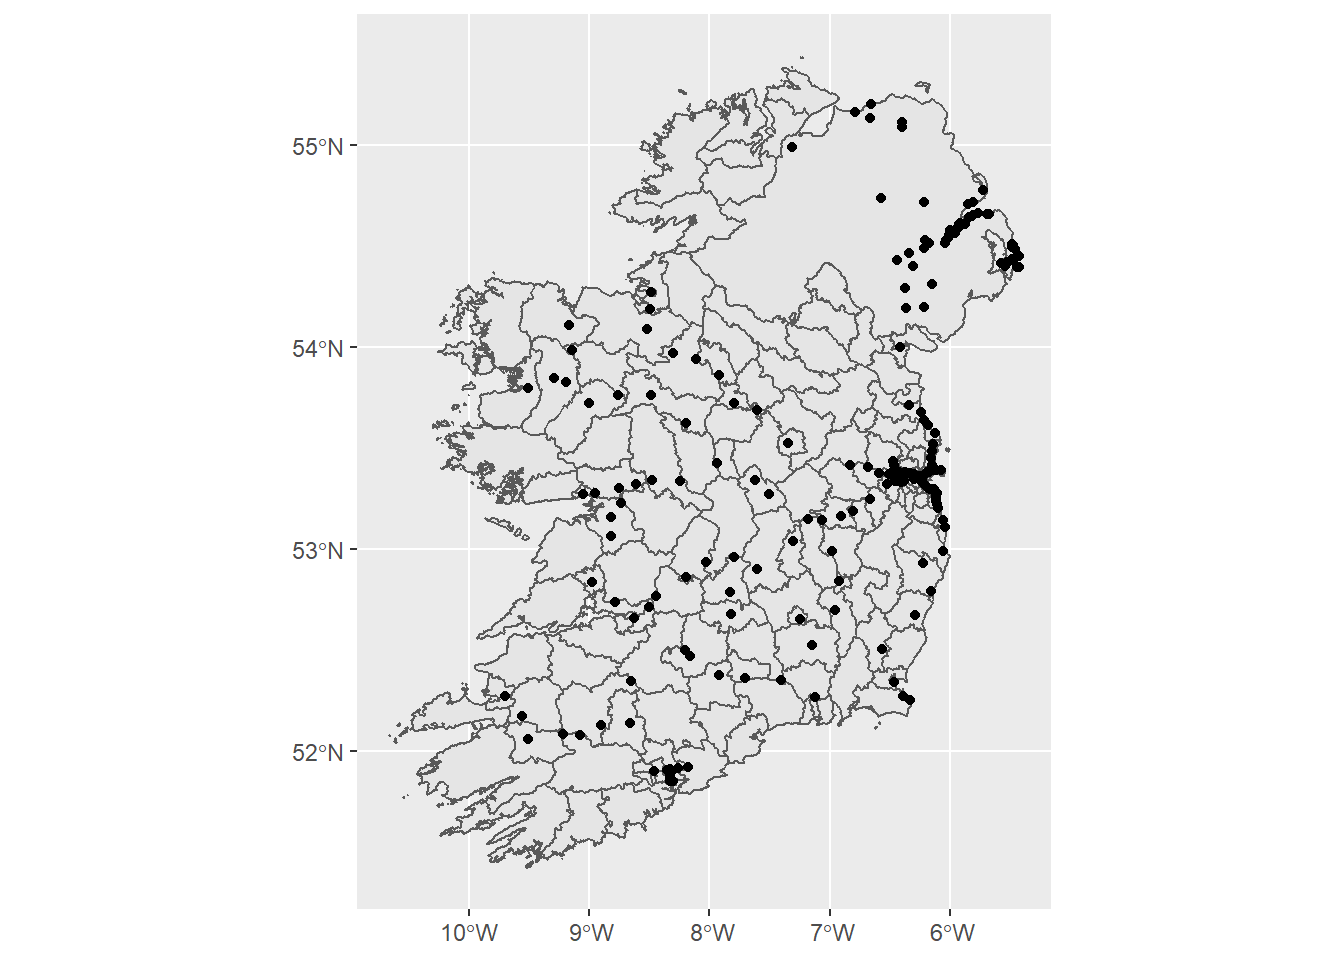
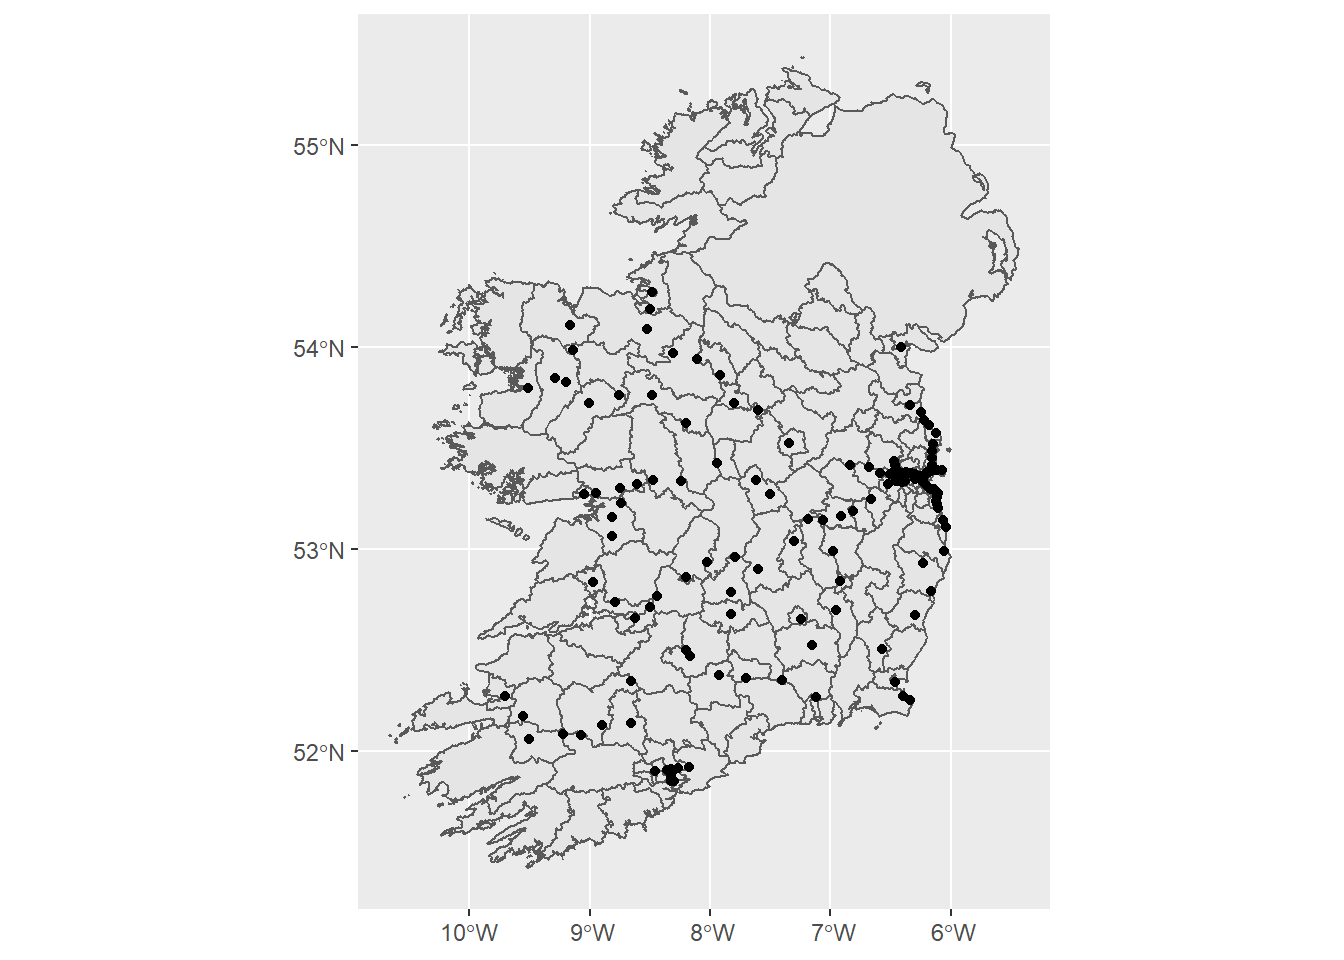
assigning points

diff --git a/docs/index.html b/docs/index.html
@@ -582,20 +582,20 @@ ggdraw(main_map) +
 </div>
 <div id="plotting-point-locations-in-a-map" class="section level2">
 <h2>Plotting point locations in a map</h2>
-<p>I’m going to assume a starting point where you have a file that contains coordinates for a bunch of points that you’d like to plot. For this example we’ll use the coordinates of Irish train stations as given on <a href="https://en.wikipedia.org/wiki/List_of_railway_stations_in_Ireland">Wikipedia</a>.</p>
+<p>I’m going to assume a starting point where you have a file that contains coordinates for a bunch of points that you’d like to plot. For this example we’ll use the coordinates of train stations in the Republic of Ireland as given on <a href="https://en.wikipedia.org/wiki/List_of_railway_stations_in_Ireland">Wikipedia</a>.</p>
 <pre class="r"><code>stations &lt;- read_csv(&quot;assets/train_stations.csv&quot;)
 stations[1:8,]</code></pre>
 <pre><code>## # A tibble: 8 x 3
-##   Name                      N     W
-##   &lt;chr&gt;                 &lt;dbl&gt; &lt;dbl&gt;
-## 1 Castlerock             55.2  6.79
-## 2 Portrush               55.2  6.65
-## 3 Coleraine              55.1  6.66
-## 4 Dhu Varren halt        55.1  6.39
-## 5 University halt        55.1  6.40
-## 6 Londonderry Waterside  55.0  7.31
-## 7 Ballycarry             54.8  5.73
-## 8 Bellarena              54.7  6.58</code></pre>
+##   Name                   N     W
+##   &lt;chr&gt;              &lt;dbl&gt; &lt;dbl&gt;
+## 1 Sligo Mac Diarmada  54.3  8.48
+## 2 Collooney           54.2  8.49
+## 3 Ballina             54.1  9.16
+## 4 Ballymote           54.1  8.52
+## 5 Dundalk Clarke      54.0  6.41
+## 6 Foxford             54.0  9.14
+## 7 Boyle               54.0  8.30
+## 8 Carrick-on-Shannon  53.9  8.11</code></pre>
 <p>We have the coordinates as latitude and longitude. We need to convert it into an sf object so that we can plot it with <code>geom_sf()</code>. We do that using the function <code>st_as_sf()</code>. There are two important arguments to this function. The first is <code>coords</code>, which takes the names of the two coordinates. We use the newly created variables ‘long’ and ‘lat’, where ‘long’ is the negative of <code>W</code> since it is to the west of the Greenwich Meridian. The second important argument is <code>crs</code> which stands for coordinate reference system. We set this to <code>"WGS 84"</code>, or the EPSG number for this crs which is 4326. This is the same crs used for <code>lea_166</code>, so they are already compatible. You can check this by running <code>st_crs(lea_166)</code>.</p>
 <p>The <code>st_as_sf</code> function creates the <code>geometry</code> column and removes the columns <code>long</code> and <code>lat</code>. At that point we no longer require <code>N</code> and <code>W</code> so we can remove those as well.</p>
 <pre class="r"><code>stations &lt;- stations %&gt;% 
@@ -604,10 +604,10 @@ stations[1:8,]</code></pre>
   select(-N, -W)
 
 glimpse(stations)</code></pre>
-<pre><code>## Rows: 200
+<pre><code>## Rows: 146
 ## Columns: 2
-## $ Name     &lt;chr&gt; &quot;Castlerock&quot;, &quot;Portrush&quot;, &quot;Coleraine&quot;, &quot;Dhu Varren halt&quot;, &quot;Un~
-## $ geometry &lt;POINT [°]&gt; POINT (-6.786944 55.16528), POINT (-6.653696 55.202), P~</code></pre>
+## $ Name     &lt;chr&gt; &quot;Sligo Mac Diarmada&quot;, &quot;Collooney&quot;, &quot;Ballina&quot;, &quot;Ballymote&quot;, &quot;D~
+## $ geometry &lt;POINT [°]&gt; POINT (-8.48249 54.2723), POINT (-8.49453 54.1871), POI~</code></pre>
 <div id="an-aside-on-coordinate-reference-systems" class="section level4 blue">
 <h4>An aside on Coordinate Reference Systems</h4>
 <p>There are lots of different ways of defining coordinate systems, and different systems are used by different organisations and in different countries. When we import or create coordinates in R we need to tell it what coordinate reference system we are using, particularly if we are using spatial coordinates from more than one source. One of the most widely used reference systems is the World Geodetic System (1984 version). This is what is used for <code>lea_166</code> and the <code>stations</code> here. There is a public registry of all of these reference systems called the EPSG Geodetic Parameter Dataset. In this registry every crs has a unique number, and these can be used to identify a crs in R. The EPSG code for World Geodetic System 1984 is 4326.</p>
@@ -622,6 +622,139 @@ glimpse(stations)</code></pre>
 </div>
 <div id="assigning-point-locations-to-regions-in-the-map" class="section level2">
 <h2>Assigning point locations to regions in the map</h2>
+<p>Let’s say we are interested in determining the LEA in which each train station is located. There are a couple of different potential endpoints here, we might want to calculate the number of stations per LEA or getting a list of stations for each LEA. Here I’ll produce a dataframe of LEA-station pairs, which will hopefully be useful for whatever you’re trying to achieve.</p>
+<p>We can use the function <code>st_contains</code> with <code>lea_166</code> and <code>stations</code>. This returns a list which is the same length as <code>lea_166</code>, with each entry equal to a vector of numbers corresponding to the row numbers of each station in <code>stations</code>.</p>
+<pre class="r"><code>stations_in_leas &lt;- st_contains(lea_166 , stations)
+glimpse(stations_in_leas)</code></pre>
+<pre><code>## List of 167
+##  $ : int [1:2] 28 30
+##  $ : int [1:2] 102 110
+##  $ : int [1:2] 62 84
+##  $ : int(0) 
+##  $ : int 105
+##  $ : int(0) 
+##  $ : int [1:3] 37 39 43
+##  $ : int(0) 
+##  $ : int(0) 
+##  $ : int(0) 
+##  $ : int(0) 
+##  $ : int(0) 
+##  $ : int(0) 
+##  $ : int(0) 
+##  $ : int [1:2] 103 106
+##  $ : int 5
+##  $ : int 67
+##  $ : int(0) 
+##  $ : int [1:6] 27 31 34 35 36 38
+##  $ : int 66
+##  $ : int(0) 
+##  $ : int(0) 
+##  $ : int(0) 
+##  $ : int(0) 
+##  $ : int 101
+##  $ : int 20
+##  $ : int(0) 
+##  $ : int 94
+##  $ : int [1:2] 121 122
+##  $ : int(0) 
+##  $ : int(0) 
+##  $ : int(0) 
+##  $ : int [1:4] 57 59 61 65
+##  $ : int 107
+##  $ : int [1:2] 126 134
+##  $ : int(0) 
+##  $ : int [1:2] 55 56
+##  $ : int(0) 
+##  $ : int 58
+##  $ : int(0) 
+##  $ : int(0) 
+##  $ : int [1:2] 25 26
+##  $ : int [1:2] 13 16
+##  $ : int [1:2] 135 137
+##  $ : int 130
+##  $ : int [1:3] 71 75 76
+##  $ : int(0) 
+##  $ : int 4
+##  $ : int(0) 
+##  $ : int(0) 
+##  $ : int 142
+##  $ : int(0) 
+##  $ : int 116
+##  $ : int [1:3] 88 93 98
+##  $ : int [1:2] 68 70
+##  $ : int(0) 
+##  $ : int(0) 
+##  $ : int 127
+##  $ : int(0) 
+##  $ : int(0) 
+##  $ : int(0) 
+##  $ : int(0) 
+##  $ : int(0) 
+##  $ : int 138
+##  $ : int(0) 
+##  $ : int 90
+##  $ : int 118
+##  $ : int 15
+##  $ : int [1:2] 33 45
+##  $ : int(0) 
+##  $ : int 17
+##  $ : int 99
+##  $ : int [1:2] 22 23
+##  $ : int(0) 
+##  $ : int 86
+##  $ : int(0) 
+##  $ : int 124
+##  $ : int(0) 
+##  $ : int(0) 
+##  $ : int(0) 
+##  $ : int [1:2] 104 109
+##  $ : int [1:2] 49 52
+##  $ : int(0) 
+##  $ : int(0) 
+##  $ : int(0) 
+##  $ : int [1:3] 48 51 53
+##  $ : int 119
+##  $ : int(0) 
+##  $ : int 125
+##  $ : int 29
+##  $ : int 3
+##  $ : int(0) 
+##  $ : int [1:2] 60 63
+##  $ : int 111
+##  $ : int [1:4] 41 42 46 47
+##  $ : int(0) 
+##  $ : int [1:2] 128 131
+##  $ : int(0) 
+##  $ : int(0) 
+##   [list output truncated]
+##  - attr(*, &quot;predicate&quot;)= chr &quot;contains&quot;
+##  - attr(*, &quot;region.id&quot;)= chr [1:167] &quot;1&quot; &quot;2&quot; &quot;3&quot; &quot;4&quot; ...
+##  - attr(*, &quot;ncol&quot;)= int 146
+##  - attr(*, &quot;class&quot;)= chr [1:2] &quot;sgbp&quot; &quot;list&quot;</code></pre>
+<p>This is a little bit unsatisfactory, we would like to have the LEA names and station names in this. Below is a solution that works for me. First, we take the list created by <code>st_covers</code> and pass it to <code>data.frame()</code>, which forces it to become a dataframe. This dataframe has 146 rows, which is the number of LEA-station pairs. There are two columns named <code>row.id</code> and <code>col.id</code> which correspond to the row numbers of LEAs and stations respectively in the objects <code>lea_166</code> and <code>stations</code>. We can join the LEA and station names by doing a <code>left_join</code> with those objects, after we have extracted only the name of the LEA/station, and created <code>row.id</code>/<code>col.id</code> equal to the row number from each dataset. Note that we also have to use <code>st_drop_geometry</code> for each spatial object to get rid of the <code>geometry</code> column; the <code>select</code> function cannot be used to remove <code>geometry</code> from an sf object.</p>
+<p>The dataframe <code>stations_in_leas</code> has the output we want. We could easily calculate the number of stations in each LEA using <code>group_by</code> and <code>summarise</code>.</p>
+<pre class="r"><code>stations_in_leas &lt;- st_contains(lea_166 , stations) %&gt;% 
+  data.frame() %&gt;% 
+  left_join(lea_166 %&gt;% 
+              st_drop_geometry() %&gt;% 
+              select(LEA) %&gt;% 
+              mutate(row.id = row_number())) %&gt;% 
+  left_join(stations %&gt;% 
+              st_drop_geometry() %&gt;% 
+              select(Name) %&gt;% 
+              mutate(col.id = row_number()))  
+
+glimpse(stations_in_leas)</code></pre>
+<pre><code>## Rows: 146
+## Columns: 4
+## $ row.id &lt;int&gt; 1, 1, 2, 2, 3, 3, 5, 7, 7, 7, 15, 15, 16, 17, 19, 19, 19, 19, 1~
+## $ col.id &lt;int&gt; 28, 30, 102, 110, 62, 84, 105, 37, 39, 43, 103, 106, 5, 67, 27,~
+## $ LEA    &lt;chr&gt; &quot;Ratoath&quot;, &quot;Ratoath&quot;, &quot;Roscrea-Templemore&quot;, &quot;Roscrea-Templemore~
+## $ Name   &lt;chr&gt; &quot;M3 Parkway&quot;, &quot;Dunboyne&quot;, &quot;Roscrea&quot;, &quot;Templemore&quot;, &quot;Clara&quot;, &quot;Tu~</code></pre>
+<div id="an-aside-on-using-generalised-maps" class="section level4 blue">
+<h4>An aside on using generalised maps</h4>
+<p>My LEA map is based on a 20m generalised map provided by OSi. A generalised map uses fewer datapoints for the boundaries of its regions to save memory and reduce processing time. The trade-off is reduced accuracy of the boundaries, which in this case are within 20 metres of the true boundaries. This could lead to errors if you are dealing with points which lie close to the boundary between two regions or are close to the coast, as they could be assigned to the wrong region or might end up in the sea. In the present example, the train stations Hazelhatch-Celbridge, Kishoge and Clonsilla are very close to LEA boundaries and might have been assigned to a different LEA if I had used an ungeneralised map. If this is a concern for you, then you should use an ungeneralised map.</p>
+</div>
 </div>
 <div id="overlapping-areas-and-calculating-area" class="section level2">
 <h2>Overlapping areas and calculating area</h2>
